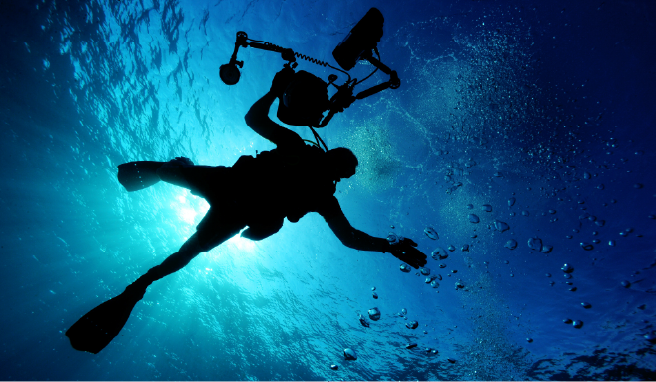
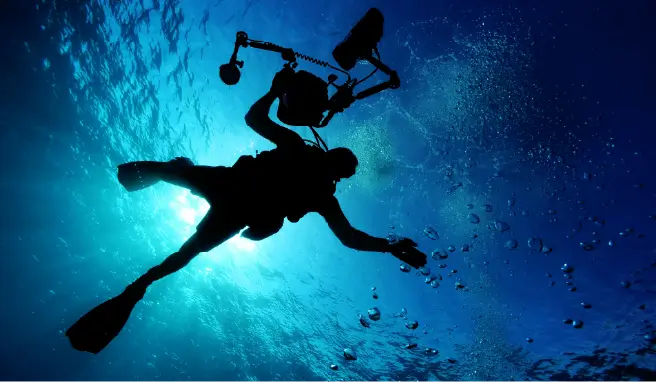
image optimice

diff --git a/src/app/components/OfferSection/OfferCardSection.tsx b/src/app/components/OfferSection/OfferCardSection.tsx
@@ -5,19 +5,19 @@ import styles from "./OfferCardSection.module.css";
 const OfferCardSection: React.FC = () => {
   const cards = [
     {
-      image: "/scuba.jpg",
+      image: "/scuba.webp",
       title: "SCUBA DIVING",
       description: "Explore reefs and marine life with certified guides.",
       buttonText: "Learn More",
     },
     {
-      image: "/padi.jpg",
+      image: "/padi.webp",
       title: "PADI COURSES",
       description: "Learn from professionals and earn international diving certification.",
       buttonText: "Learn More",
     },
     {
-      image: "/snorkeling.jpg",
+      image: "/snorkeling.webp",
       title: "SNORKELING",
       description: "Perfect for beginners – enjoy surface-level marine views.",
       buttonText: "Learn More",
